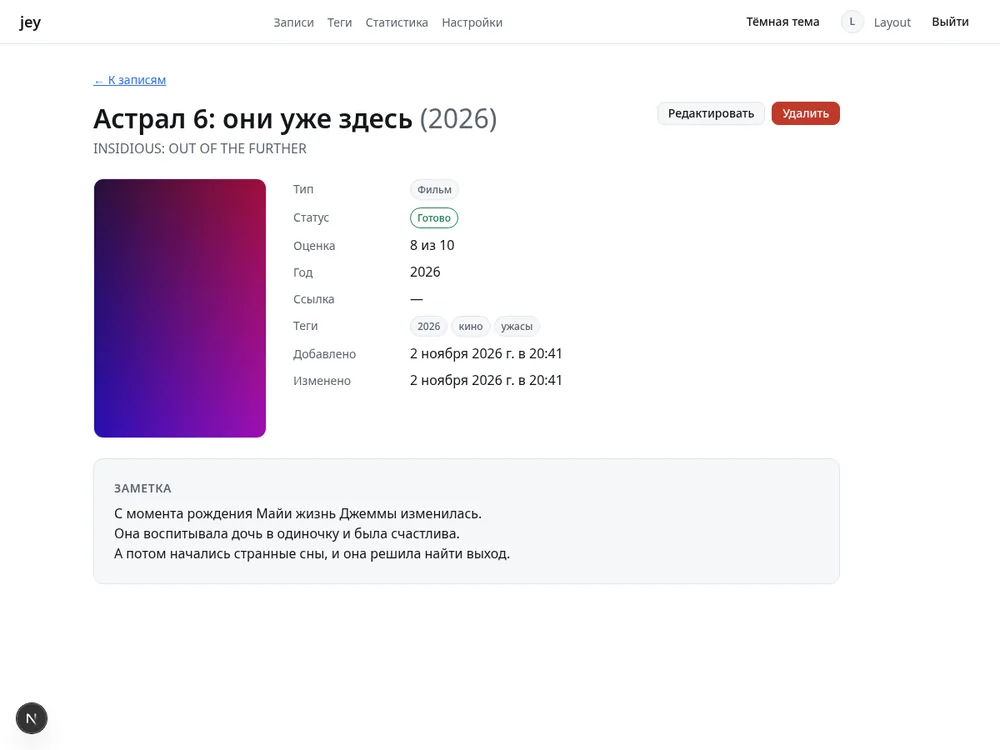
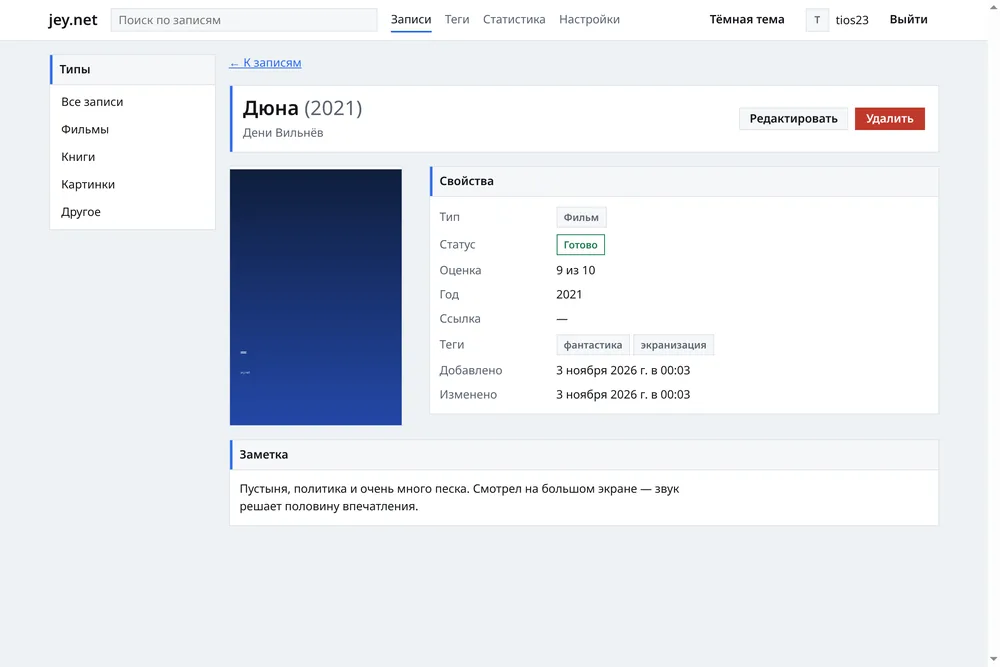
style(web): type scale, accent panel headers and fresh screenshots

diff --git a/frontend/app/(public)/page.tsx b/frontend/app/(public)/page.tsx
@@ -39,21 +39,21 @@ const SCREENSHOTS = [
     alt: "Список записей с обложками, статусами и тегами",
     caption: "Каталог: обложки, статусы, оценки и теги",
     width: 1000,
-    height: 750,
+    height: 667,
   },
   {
     src: "/screenshots/item.webp",
     alt: "Карточка записи: постер слева, свойства справа",
     caption: "Карточка: заметка, свойства и обложка",
     width: 1000,
-    height: 750,
+    height: 667,
   },
   {
     src: "/screenshots/profile.webp",
     alt: "Публичный профиль с завершёнными записями",
     caption: "Публичный профиль — только то, что вы разрешили",
     width: 1000,
-    height: 818,
+    height: 667,
   },
 ];
 

diff --git a/frontend/app/(app)/dashboard/page.tsx b/frontend/app/(app)/dashboard/page.tsx
@@ -89,15 +89,11 @@ export default async function DashboardPage() {
       </Card>
 
       <div className={styles.grid}>
-        <Card>
-          <Distribution title="По типам" rows={kindRows} total={stats.total} />
+        <Card title="По типам">
+          <Distribution rows={kindRows} total={stats.total} />
         </Card>
-        <Card>
-          <Distribution
-            title="По статусам"
-            rows={statusRows}
-            total={stats.total}
-          />
+        <Card title="По статусам">
+          <Distribution rows={statusRows} total={stats.total} />
         </Card>
       </div>
     </main>

diff --git a/frontend/components/items/item-card.module.css b/frontend/components/items/item-card.module.css
@@ -1,6 +1,6 @@
 .card {
   display: grid;
-  grid-template-columns: 6.5rem minmax(0, 1fr);
+  grid-template-columns: 8rem minmax(0, 1fr);
   gap: var(--space-4);
   padding: var(--space-3);
   background: var(--color-bg);
@@ -89,8 +89,8 @@
   white-space: pre-line;
   overflow-wrap: anywhere;
   -webkit-box-orient: vertical;
-  -webkit-line-clamp: 3;
-  line-clamp: 3;
+  -webkit-line-clamp: 2;
+  line-clamp: 2;
 }
 
 .deleted {

diff --git a/frontend/components/items/cover-picker.module.css b/frontend/components/items/cover-picker.module.css
@@ -6,7 +6,7 @@
 
 .label {
   font-size: var(--text-sm);
-  font-weight: 500;
+  font-weight: 600;
 }
 
 .preview {
@@ -43,7 +43,7 @@
   align-items: center;
   padding: var(--space-2) var(--space-3);
   font-size: var(--text-sm);
-  font-weight: 500;
+  font-weight: 600;
   color: var(--color-text);
   background: var(--color-surface);
   border: 1px solid var(--color-border);

diff --git a/frontend/app/globals.css b/frontend/app/globals.css
@@ -45,12 +45,13 @@
   --radius-lg: 0;
   --radius-full: 999px;
 
+  /* Four sizes only: caption, body, section title, page title. */
   --text-xs: 0.75rem;
   --text-sm: 0.875rem;
-  --text-base: 1rem;
+  --text-base: 0.875rem;
   --text-lg: 1.125rem;
   --text-xl: 1.5rem;
-  --text-2xl: 2rem;
+  --text-2xl: 1.5rem;
 
   --line-tight: 1.25;
   --line-normal: 1.5;

diff --git a/frontend/components/stats/distribution.tsx b/frontend/components/stats/distribution.tsx
@@ -6,17 +6,14 @@ export interface DistributionRow {
 }
 
 export function Distribution({
-  title,
   rows,
   total,
 }: {
-  title: string;
   rows: DistributionRow[];
   total: number;
 }) {
   return (
     <section className={styles.section}>
-      <h2 className={styles.title}>{title}</h2>
 
       <ul className={styles.list}>
         {rows.map((row) => {

diff --git a/frontend/components/forms/settings-form.module.css b/frontend/components/forms/settings-form.module.css
@@ -1,8 +1,8 @@
 .sections {
-  display: flex;
-  flex-direction: column;
-  gap: var(--space-6);
-  max-width: 40rem;
+  display: grid;
+  grid-template-columns: repeat(auto-fit, minmax(22rem, 1fr));
+  gap: var(--space-4);
+  align-items: start;
 }
 
 .section {

diff --git a/frontend/components/empty-state.module.css b/frontend/components/empty-state.module.css
@@ -26,7 +26,7 @@
   margin-top: var(--space-2);
   padding: var(--space-2) var(--space-4);
   font-size: var(--text-sm);
-  font-weight: 500;
+  font-weight: 600;
   color: var(--color-on-accent);
   text-decoration: none;
   background: var(--color-accent);

diff --git a/frontend/app/(app)/items/page.module.css b/frontend/app/(app)/items/page.module.css
@@ -22,7 +22,7 @@
   align-items: center;
   padding: var(--space-2) var(--space-4);
   font-size: var(--text-base);
-  font-weight: 500;
+  font-weight: 600;
   color: var(--color-on-accent);
   text-decoration: none;
   background: var(--color-accent);

diff --git a/frontend/components/ui/Badge.module.css b/frontend/components/ui/Badge.module.css
@@ -3,7 +3,7 @@
   align-items: center;
   padding: var(--space-1) var(--space-2);
   font-size: var(--text-xs);
-  font-weight: 500;
+  font-weight: 600;
   line-height: var(--line-tight);
   border: 1px solid transparent;
   border-radius: 0;

diff --git a/frontend/components/ui/Button.module.css b/frontend/components/ui/Button.module.css
@@ -6,7 +6,7 @@
   border: 1px solid transparent;
   border-radius: var(--radius-md);
   font-family: inherit;
-  font-weight: 500;
+  font-weight: 600;
   line-height: var(--line-tight);
   cursor: pointer;
   transition:

diff --git a/frontend/components/ui/Card.module.css b/frontend/components/ui/Card.module.css
@@ -7,6 +7,7 @@
   padding: 7px var(--space-3);
   background: var(--color-surface);
   border-bottom: 1px solid var(--color-border);
+  box-shadow: inset 3px 0 0 var(--color-accent);
 }
 
 .title {
